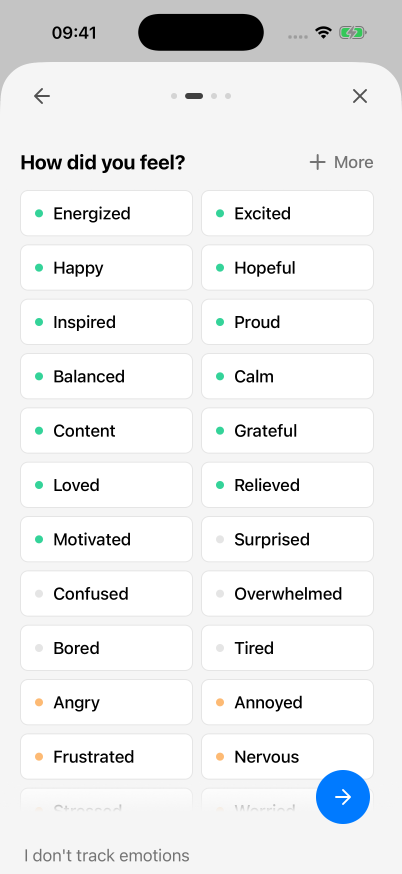
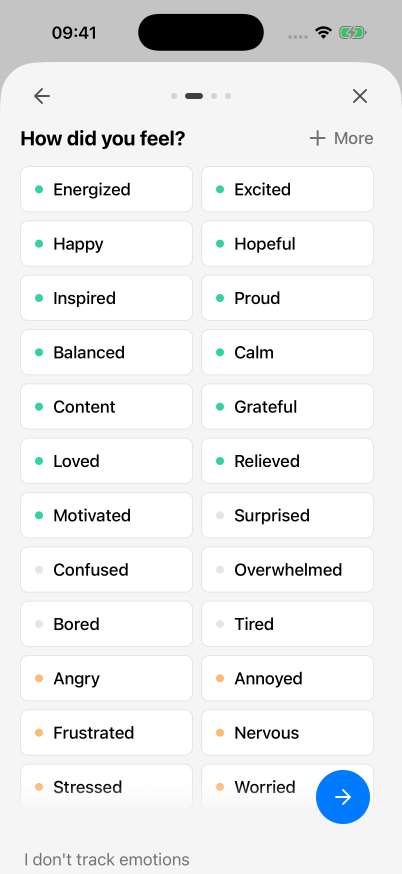
style(logger): tighten spacing below header controls

diff --git a/src/features/logger/slides/marginTop.ts b/src/features/logger/slides/marginTop.ts
@@ -1,5 +1,2 @@
-import { Dimensions } from "react-native";
-
-/** Top margin for logger slides: 16 on screens shorter than 700 pt, else 32. */
-export const getSlideMarginTop = () =>
-  Dimensions.get("screen").height < 700 ? 16 : 32;
+/** Keep logger slide content 8 pt below header controls on every screen size. */
+export const getSlideMarginTop = () => 8;

diff --git a/src/features/logger/components/LoggerHeader.tsx b/src/features/logger/components/LoggerHeader.tsx
@@ -29,7 +29,7 @@ export const LoggerHeader = ({
   <View
     style={{
       paddingHorizontal: 20,
-      paddingTop: 8,
+      paddingTop: 12,
     }}
   >
     <SlideHeader
